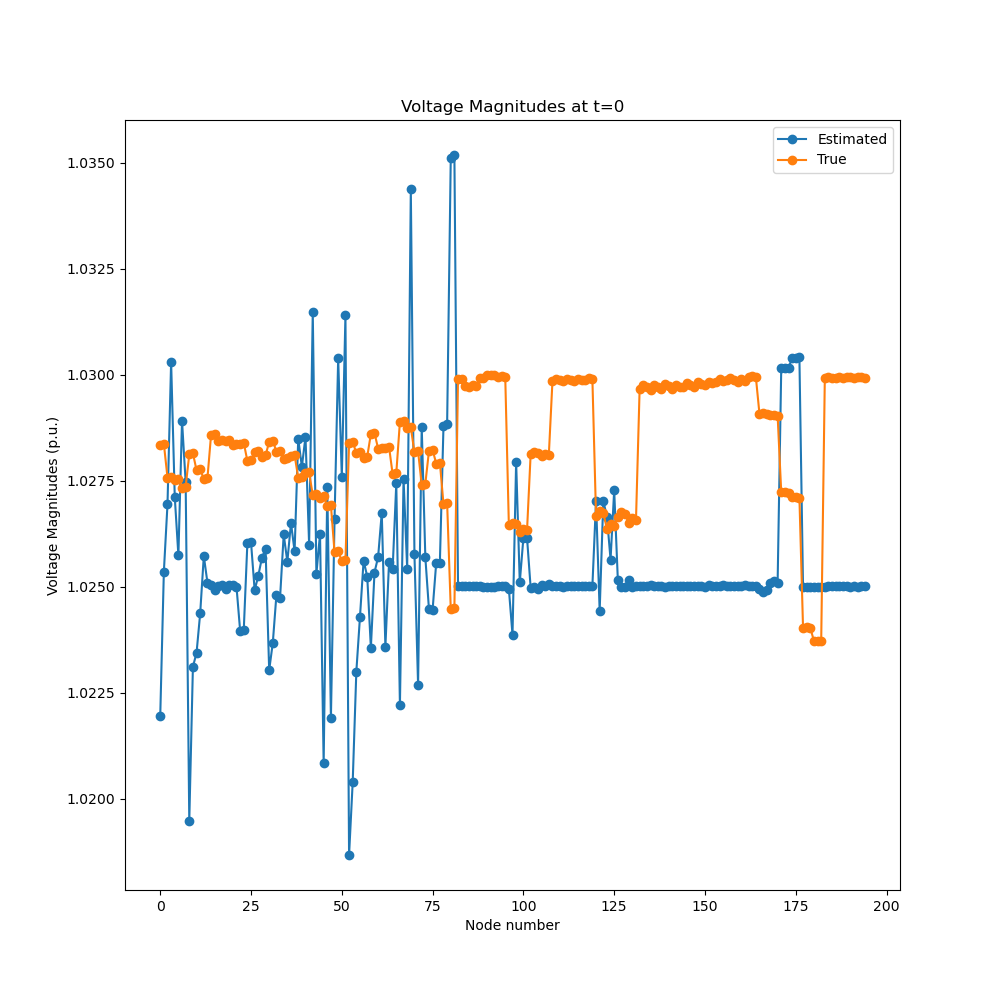
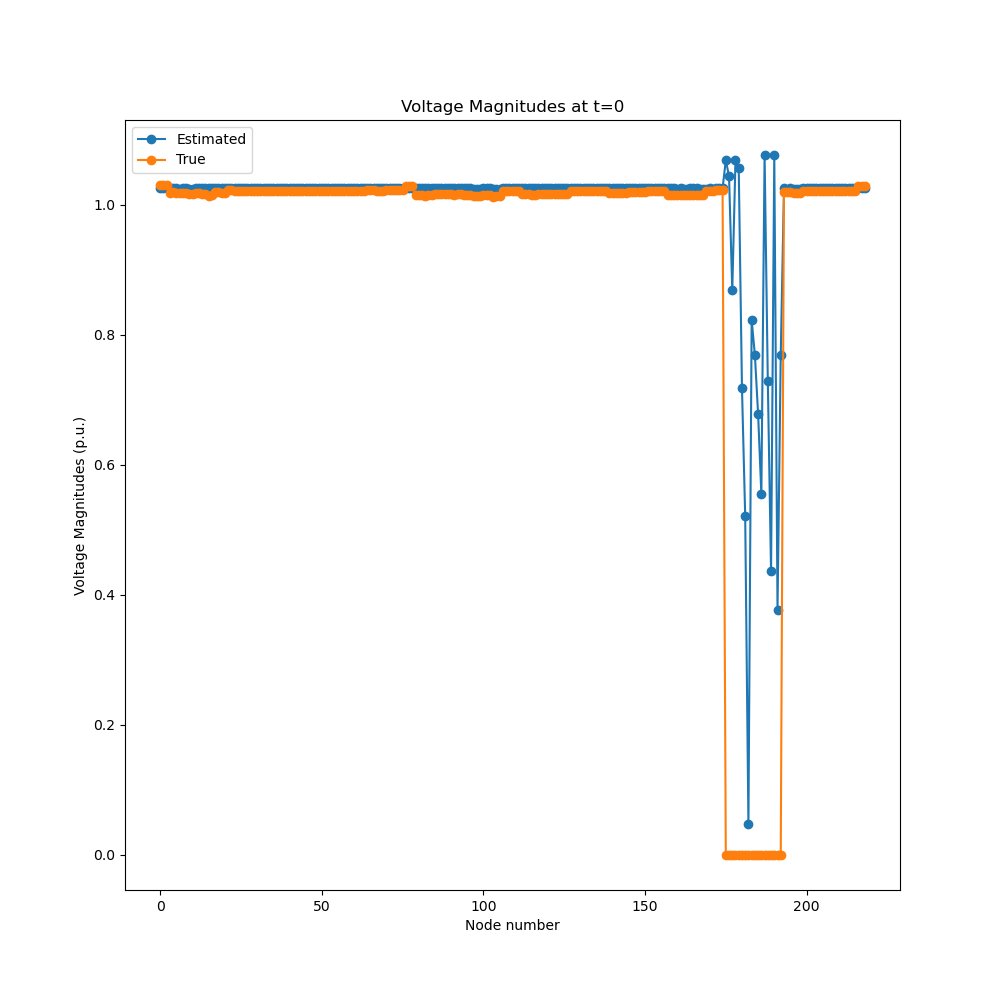
Update plots and error calculation

diff --git a/post_analysis.py b/post_analysis.py
@@ -48,14 +48,15 @@ def plots(true_voltages, estimated_voltages, time=0, unit="kV"):
 
 def errors(true_voltages, estimated_voltages):
     true_mag = np.abs(true_voltages)
+    nonzero_parts = true_mag != 0.0
     MAPE = np.mean(
         np.array(np.abs(true_mag - np.abs(estimated_voltages))
-                / true_mag)
+                / true_mag)[nonzero_parts]
         * 100
     )
     angle_difference = np.abs(np.angle(true_voltages) - np.angle(estimated_voltages))
     angle_difference[angle_difference >= np.pi] = 2*np.pi - angle_difference[angle_difference >= np.pi]
-    MAE = np.mean(np.array(angle_difference) * 180 / np.pi)
+    MAE = np.mean(np.array(angle_difference)[nonzero_parts] * 180 / np.pi)
     return MAPE, MAE
 
 

diff --git a/BasicFeeder/sender_cosim.py b/BasicFeeder/sender_cosim.py
@@ -129,9 +129,9 @@ def go_cosim(sim, config: FeederConfig):
     )
 
     logger.info("Sending topology and saving to topology.json")
-    with open("topology.json", "w") as topology_file:
-        topology_file.write(topology.json())
     pub_topology.publish(topology.json())
+    with open("topology.json", "w") as f:
+        f.write(topology.json())
 
     snapshot_run(sim)
 
@@ -140,7 +140,6 @@ def go_cosim(sim, config: FeederConfig):
     current_hour = 0
     current_second = 0
     for request_time in range(0, 100):
-        request_time += 0.01
         while granted_time < request_time:
             granted_time = h.helicsFederateRequestTime(vfed, request_time)
         current_index+=1
